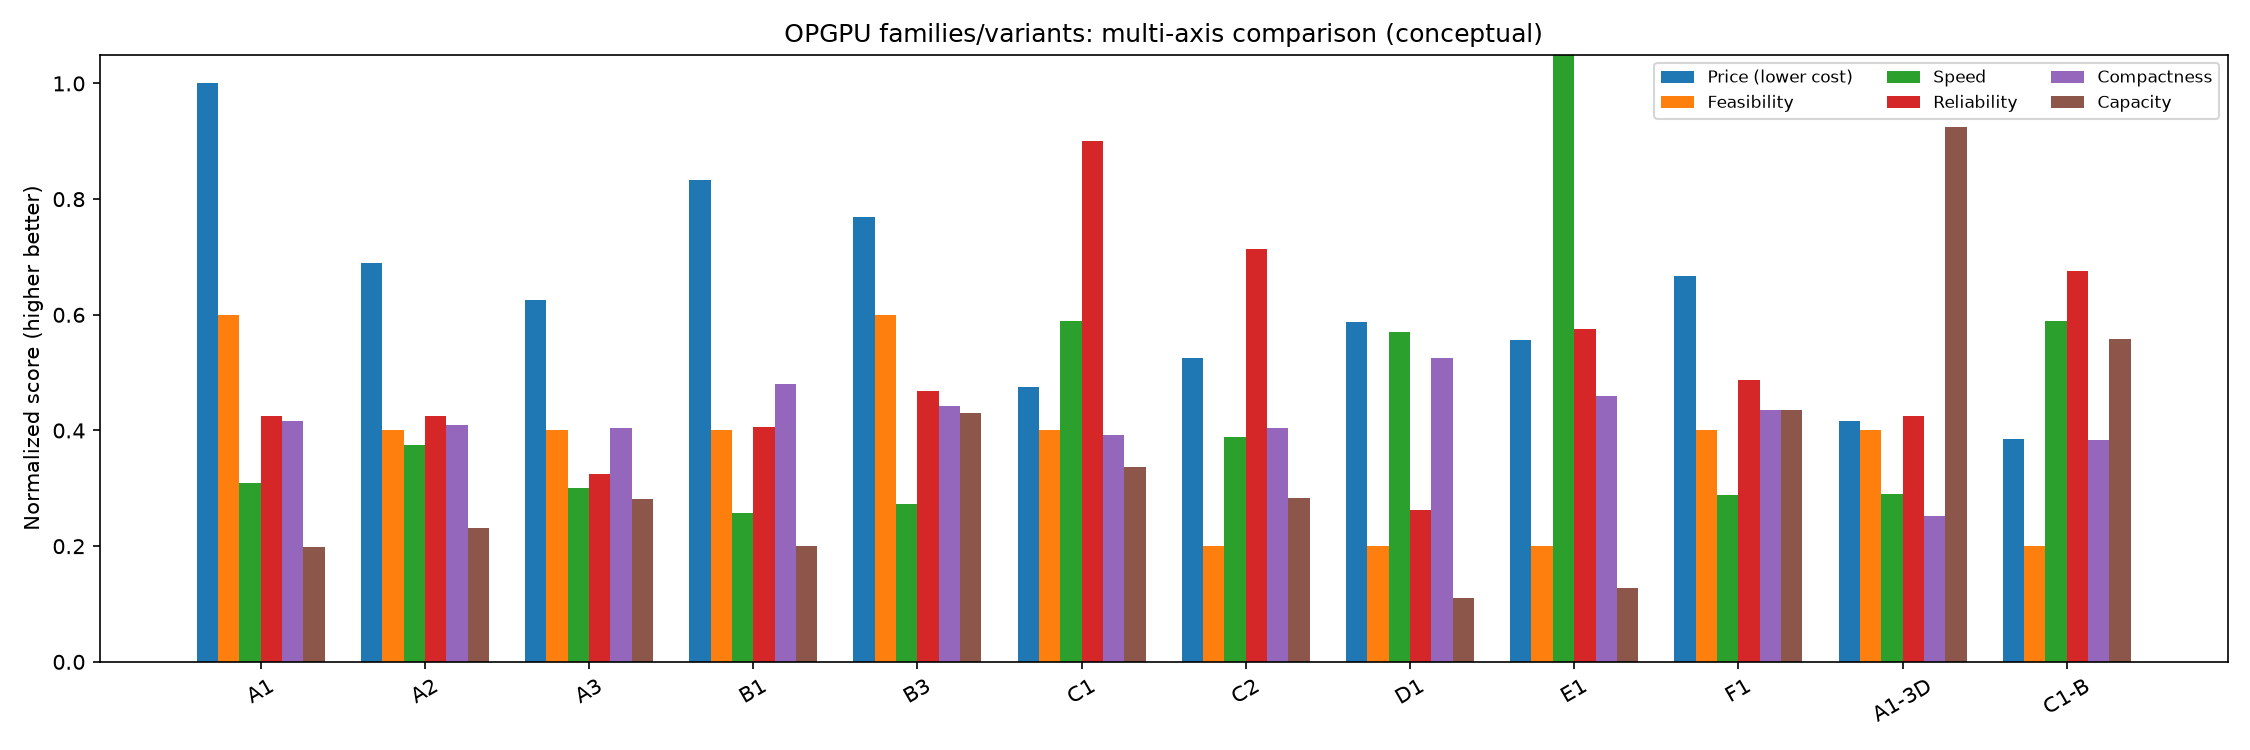
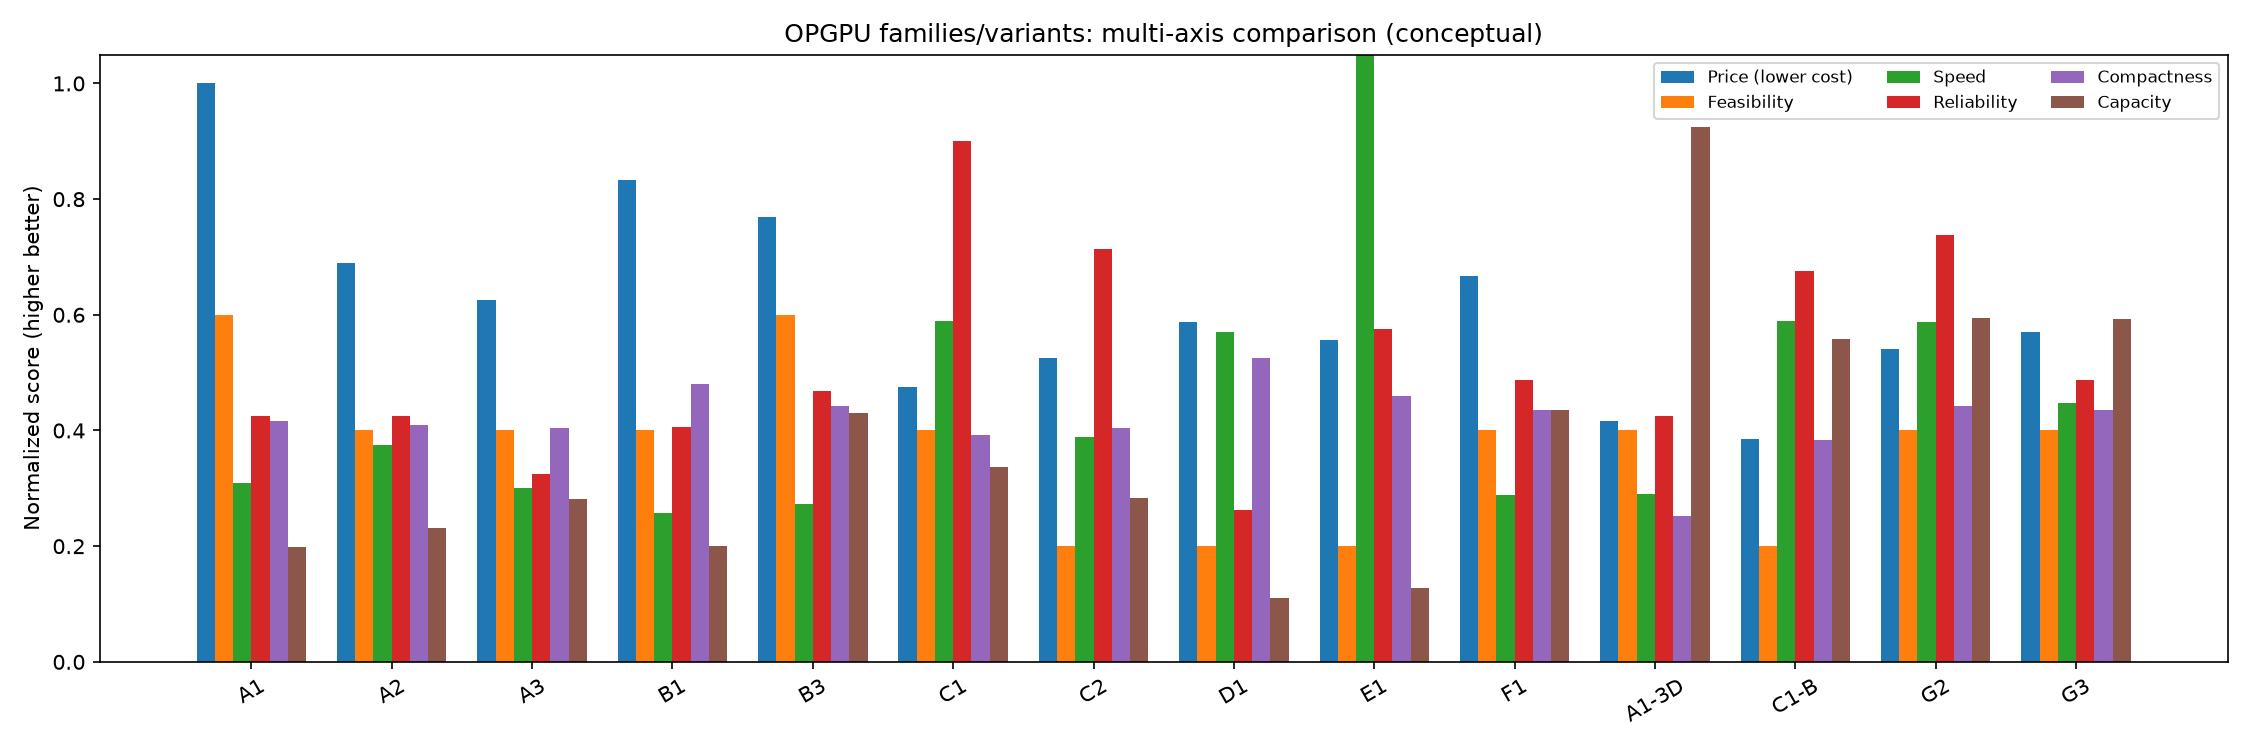
Add Family G thin-film membrane stacks (nd interference) with G2/G3 comparison

diff --git a/model_families_development.py b/model_families_development.py
@@ -102,6 +102,12 @@ def variants() -> List[Variant]:
         Variant("C1-B", "C+B", "RT EO + WDM resonant", 5, 5e-12, 6.0, 1e10, 3, "media-alta",
                 80, 40, 45, 150, 2.0, 48, 4.0, 1, "high", "TFLN + microrings", 2.60, 2800, 8500, 1417,
                 "Interferencia EO + resonante/WDM", "Combina velocidad y paralelismo espectral; capacidad NV moderada"),
+        Variant("G2", "G", "Thin-film membrane stack (EO-tuned)", 3, 1e-11, 5.5, 1e11, 3, "media-alta",
+                20, 18, 30, 306, 2.0, 192, 3.2, 2, "high", "Dieléctrico multicapa + EO (TFLN/BTO)", 1.85, 2100, 6200, 1127,
+                "Interferencia constructiva/destructiva por espesor n·d (F–P)", "Apilado vertical WDM en core; alta densidad/capacidad y velocidad por sintonía de índice"),
+        Variant("G3", "G", "Thin-film membrane stack (PCM+EO hybrid)", 4, 5e-10, 5.0, 1e7, 3, "media",
+                22, 20, 32, 250, 4.0, 256, 2.8, 2, "high", "Multicapa dieléctrica + PCM + EO", 1.75, 2000, 5800, 1160,
+                "Interferencia por espesor n·d con pesos NV + ajuste EO", "Combina capacidad NV (PCM) y reconfiguración rápida EO en volumen reducido"),
     ]
 
 

diff --git a/hardware/families-and-variants.md b/hardware/families-and-variants.md
@@ -74,6 +74,26 @@
   - **F2 (Híbrida cepillo + difractiva):** el arreglo 3D (cepillo) como banco de pesos/voxels y una etapa difractiva para mezcla global.
 - **Fortalezas:** throughput y paralelismo espacial. **Retos:** alineación, precisión analógica, integración con PCIe/memoria óptica direccionable.
 
+### 2.7 Familia G — Membranas apiladas de película delgada / cavidades Fabry–Pérot (interferencia por espesor)
+
+- **Principio físico (análogos cotidianos):** la misma interferencia de película delgada que produce colores en **agua jabonosa** o franjas en experimentos tipo **Young/cabello** depende del espesor óptico $n d$ y la longitud de onda $\lambda$. Para una lámina/membrana, la diferencia de fase entre reflexiones (o transmisiones) es $\delta \approx \frac{4\pi n d \cos\theta}{\lambda} + \phi_r$, dando **máximos constructivos** y **mínimos destructivos** selectivos en $\lambda$. Apilando membranas de distintos espesores se obtienen respuestas espectrales/funcionales programables por capa.
+- **Traslación a cómputo en “cores”/cerdas:** dentro de cada cerda o vóxel del cepillo 3D se apilan membranas dieléctricas (o cavidades Fabry–Pérot/etalon) con espesores calibrados. Cada capa actúa como selector/ponderador interferométrico (paso/bloqueo/atenuación/fase por $\lambda$), permitiendo:
+  - **Paralelismo WDM en volumen reducido:** múltiples canales $\lambda$ procesados en la misma huella lateral mediante apilamiento vertical (nm–µm por membrana, muchas capas por “core”).
+  - **Cómputo por interferencia constructiva/destructiva:** suma/resta y filtrado al combinar salidas de capas/cavidades (p. ej. detección diferencial, redes de etalones acoplados), análogo a los máximos/mínimos observables en la pared o en la película de jabón.
+  - **Alta densidad/capacidad:** más elementos funcionales por mm³ al usar el eje vertical (complementario al cepillo extruido).
+- **Elementos:** membranas multicapa (SiN/SiO₂/TiO₂/Ta₂O₅ u óxidos/dieléctricos compatibles), cavidades F–P, espaciadores de espesor controlado, acopladores a guía/fibra, opcionalmente pixeles por cerda.
+- **Sintonía (para velocidad):**
+  - **Índice $n$ (rápido):** electro-óptico (Pockels), portadores o materiales sintonizables para desplazar la condición de interferencia sin mover masa.
+  - **Fase/estado (no volátil o latching):** PCM en capas selectivas para pesos persistentes.
+  - **Espesor $d$ (MEMS/membrana deformable):** ajuste mecánico de cavidad; mayor recorrido pero típicamente más lento que EO.
+- **Variantes:**
+  - **G1 (Apilado pasivo WDM por espesor):** membranas de espesores fijos para bancos de filtros/ponderación espectral compactos (alta capacidad por volumen, sin reconfiguración rápida).
+  - **G2 (Apilado sintonizable por índice, EO):** membranas/cavidades con control EO para reconfiguración **rápida** (ps–ns) y cómputo dinámico en espacio reducido.
+  - **G3 (Híbrido PCM+EO en membranas):** pesos base persistentes (PCM/capa) y ajuste fino rápido (EO) por canal/capa.
+  - **G4 (F–P/MEMS):** cavidades sintonizables por espesor efectivo para calibración o conmutación de menor tasa.
+- **Fortalezas:** muy alta densidad volumétrica, paralelismo espectral natural, uso directo de interferencia constructiva/destructiva por diseño de espesor, potencial de integración vertical en el cepillo. **Retos:** tolerancias nanométricas de espesor/planitud, pérdidas por interfaces, sensibilidad angular/térmica, uniformidad entre cerdas y complejidad de fabricación/apilado.
+- **Vínculo con los experimentos cotidianos:** la “franja brillante” equivale a condición constructiva (salida/peso reforzado) y la “franja/banda oscura o negra” a cancelación destructiva (bloqueo/resta), trasladadas a espesores $n d$ y longitudes de onda controladas dentro del core.
+
 ## 3. Comparativa orientativa (familias)
 
 | Familia | Tiempo de respuesta típico (sintonía/conmutación) | No volatilidad | Interferencia aditiva/destructiva | Madurez de integración | Mejor ajuste en OPGPU |
@@ -84,6 +104,7 @@
 | D. Plasmónica/ENZ | fs–ps (potencial) | Depende | Local + acoplada | Baja–media | Activaciones, hotspots, compacidad |
 | E. Todo-óptica no lineal | fs–ps | N/A (señal) | Umbral/fase no lineal | Baja–media | Lógica/activación sin O-E-O |
 | F. Difractiva/metasuperficie | ps–ns (según actuador) | Depende | Suma en campo lejano/plano | Baja–media | Pre/post-procesado paralelo |
+| G. Membranas película delgada / F–P apiladas | ns–µs (MEMS/termo); ps–ns (EO/índice); pasivo fijo sin reconfig. | Depende (PCM sí, EO no, MEMS latching) | Constructiva/destructiva por espesor $n d$ y $\lambda$ | Baja–media (recubrimientos); MEMS/EO más complejo | Alta densidad volumétrica, WDM en “core”, cómputo en espacio reducido |
 
 *Los rangos son orientativos y dependen de material, dispositivo y sistema; deben validarse por implementación.*
 
@@ -97,6 +118,7 @@
 | **OPGPU-Dense (B1/B3)** | Celdas resonantes BIC/ring + WDM denso | Densidad y eficiencia por confinamiento | Sensibilidad y calibración fina |
 | **OPGPU-Hybrid-NL (A + D/E)** | Malla lineal interferométrica + bloques ENZ/2D/no lineales | Activaciones y funciones no lineales en dominio óptico (NPU) | Madurez y pérdidas |
 | **OPGPU-3D (F2 + cepillo)** | Arreglo cepillo 3D + etapa difractiva/interferométrica | Paralelismo volumétrico masivo | Integración/alineación |
+| **OPGPU-Membrane (G2/G3)** | Membranas/F–P apiladas en cerda/core con sintonía EO (y opcional PCM) | Alta velocidad y alta capacidad en volumen reducido por interferencia de espesor $n d$ y WDM vertical | Tolerancias de fabricación, pérdidas y control térmico/angular |
 
 ## 5. Uso de interferencia aditiva/destructiva (patrones de diseño)
 

diff --git a/outputs/families_dev_comparison.md b/outputs/families_dev_comparison.md
@@ -18,26 +18,28 @@
 | F1 | Diffractive/metasurface | 20 | 1e-06 | 5.0 | 80 | 1.8 | 1e+07 | 3/5 | 2/5 | 20 | 60 | 1.50 | 4500 | 900 | 0.487 | 0.289 | 0.435 |
 | A1-3D | OPGPU-Ref 3D Brush (A1) | 15 | 2e-05 | 8.0 | 512 | 2.0 | 1e+06 | 3/5 | 2/5 | 900 | 120 | 2.40 | 9000 | 1125 | 0.425 | 0.29 | 0.925 |
 | C1-B | RT EO + WDM resonant | 5 | 5e-12 | 6.0 | 48 | 4.0 | 1e+10 | 3/5 | 1/5 | 40 | 45 | 2.60 | 8500 | 1417 | 0.675 | 0.589 | 0.558 |
+| G2 | Thin-film membrane stack (EO-tuned) | 3 | 1e-11 | 5.5 | 192 | 3.2 | 1e+11 | 3/5 | 2/5 | 18 | 30 | 1.85 | 6200 | 1127 | 0.738 | 0.588 | 0.595 |
+| G3 | Thin-film membrane stack (PCM+EO hybrid) | 4 | 5e-10 | 5.0 | 256 | 2.8 | 1e+07 | 3/5 | 2/5 | 20 | 32 | 1.75 | 5800 | 1160 | 0.487 | 0.447 | 0.593 |
 
 ## Rankings (best → worst)
 
-- **price_low_cost:** A1, B1, B3, A2, F1, A3, D1, E1, C2, C1, A1-3D, C1-B
-- **feasibility:** A1, B3, A2, A3, B1, C1, F1, A1-3D, C2, D1, E1, C1-B
-- **speed:** E1, C1, C1-B, D1, C2, A2, A1, A3, A1-3D, F1, B3, B1
-- **reliability:** C1, C2, C1-B, E1, F1, B3, A1, A2, A1-3D, B1, A3, D1
-- **compactness:** D1, B1, E1, B3, F1, A1, A2, A3, C2, C1, C1-B, A1-3D
-- **capacity:** A1-3D, C1-B, F1, B3, C1, C2, A3, A2, B1, A1, E1, D1
-- **capacity_compute:** A1-3D, C1-B, F1, B3, C1, A3, C2, A2, A1, B1, D1, E1
-- **capacity_memory:** A1-3D, B3, B1, F1, A3, A1, A2, C1-B, C2, D1, E1, C1
+- **price_low_cost:** A1, B1, B3, A2, F1, A3, D1, G3, E1, G2, C2, C1, A1-3D, C1-B
+- **feasibility:** A1, B3, A2, A3, B1, C1, F1, A1-3D, G2, G3, C2, D1, E1, C1-B
+- **speed:** E1, C1, C1-B, G2, D1, G3, C2, A2, A1, A3, A1-3D, F1, B3, B1
+- **reliability:** C1, G2, C2, C1-B, E1, F1, G3, B3, A1, A2, A1-3D, B1, A3, D1
+- **compactness:** D1, B1, E1, B3, G2, F1, G3, A1, A2, A3, C2, C1, C1-B, A1-3D
+- **capacity:** A1-3D, G2, G3, C1-B, F1, B3, C1, C2, A3, A2, B1, A1, E1, D1
+- **capacity_compute:** A1-3D, C1-B, G2, F1, G3, B3, C1, A3, C2, A2, A1, B1, D1, E1
+- **capacity_memory:** A1-3D, G3, G2, B3, B1, F1, A3, A1, A2, C1-B, C2, D1, E1, C1
 
 ## Recommended by priority
 
 - **lowest_price_accessible:** A1, B1, B3, A2, F1
 - **highest_feasibility:** A1, B3, A2, A3, B1
-- **highest_speed:** E1, C1, C1-B, D1, C2
-- **highest_reliability:** C1, C2, C1-B, E1, F1
-- **smallest_footprint:** D1, B1, E1, B3, F1
-- **highest_capacity:** A1-3D, C1-B, F1, B3, C1
+- **highest_speed:** E1, C1, C1-B, G2, D1
+- **highest_reliability:** C1, G2, C2, C1-B, E1
+- **smallest_footprint:** D1, B1, E1, B3, G2
+- **highest_capacity:** A1-3D, G2, G3, C1-B, F1
 
 ## Notes
 

diff --git a/CHANGELOG.md b/CHANGELOG.md
@@ -2,10 +2,11 @@
 
 ## [v0.7.1-research] - Comparación de desarrollo de familias (precio, factibilidad, velocidad, fiabilidad, dimensiones, capacidad) (2026-11-17)
 ### Added
-- `model_families_development.py`: comparación conceptual extendida de 12 variantes (A–F) por **precio**, **factibilidad**, **velocidad**, **fiabilidad**, **dimensiones** y **capacidad** (cómputo TOPS, memoria/pesos efectiva y ancho de banda), con rankings y recomendaciones por prioridad.
+- `model_families_development.py`: comparación conceptual extendida de variantes (A–G, 14) por **precio**, **factibilidad**, **velocidad**, **fiabilidad**, **dimensiones** y **capacidad** (cómputo TOPS, memoria/pesos efectiva y ancho de banda), con rankings y recomendaciones por prioridad.
+- **Familia G (membranas apiladas de película delgada / Fabry–Pérot):** interferencia constructiva/destructiva por espesor óptico $n d$ y $\lambda$ (análoga a agua jabonosa/experimento de Young) aplicada a cores/cerdas para alta densidad volumétrica y WDM vertical; variantes **G2** (sintonía EO rápida) y **G3** (híbrida PCM+EO) incluidas en la comparación.
 - Salidas regeneradas: `outputs/families_dev_comparison.{md,csv,json}` y `figures/families_dev_{axes,speed_cost,reliability_feasibility,capacity_speed}.png`.
 ### Changed
-- `hardware/families-and-variants.md`: eje de **capacidad**, sección de comparación cuantitativa de desarrollo y referencia a salidas `families_dev_*`.
+- `hardware/families-and-variants.md`: eje de **capacidad**, familia/variantes **G** y **OPGPU-Membrane**, sección de comparación cuantitativa de desarrollo y referencia a salidas `families_dev_*`.
 - `README.md`: referencia a `model_families_development.py` y comparativas multi-eje de familias.
 
 ## [v0.7.0-research] - Familias y variantes ópticas rápidas (2026-11-17)
